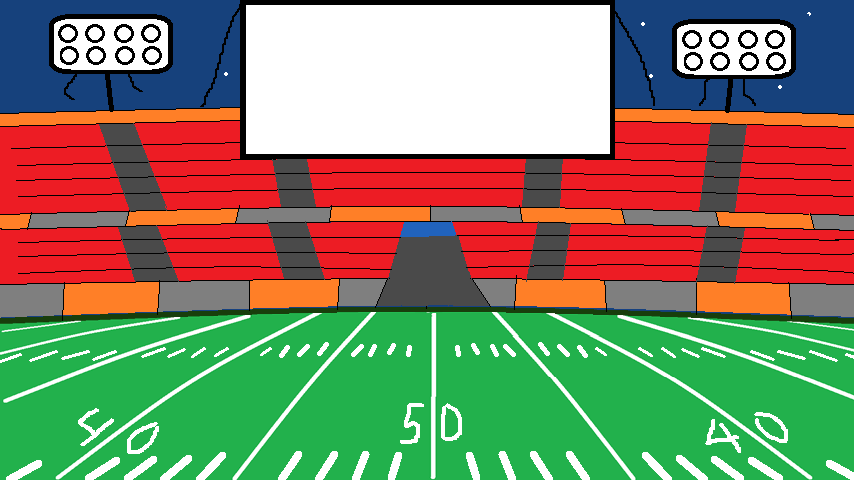
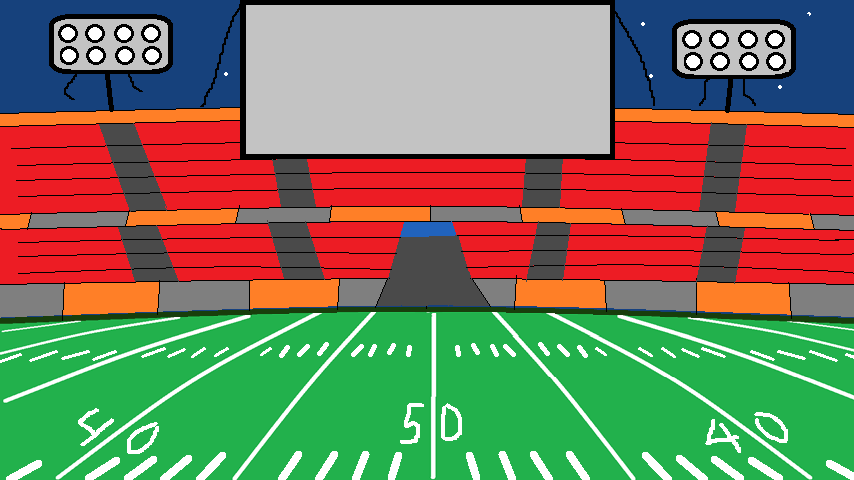
finish assets + player + enemy

Changed region(s): [[0.274, 0.0, 0.7307, 0.3438], [0.0609, 0.0312, 0.2131, 0.1562], [0.7916, 0.0312, 0.9438, 0.1562]]

diff --git a/src/scenes/Load.js b/src/scenes/Load.js
@@ -5,12 +5,17 @@ class Load extends Phaser.Scene{
 
     preload() {
         this.load.path = './assets/'
+
         //font
         this.load.bitmapFont('toonyFont', '/font/ToonyFont.png', '/font/ToonyFont.fnt')
 
         //images
         this.load.image('menu', '/img/Menu.png')
         this.load.image('field', '/img/field.png')
+        this.load.spritesheet('stadium', '/img/stadium.png', {
+            frameWidth: 2160,
+            frameHeight: 300
+        })
 
         //sounds
         
@@ -19,10 +24,25 @@ class Load extends Phaser.Scene{
             frameWidth: 64,
             frameHeight: 64
         });   
+
+        this.load.spritesheet('enemy', './spritesheets/enemy.png', {
+            frameWidth: 64,
+            frameHeight: 64
+        });  
     }
 
     create() {
         //anims
+
+        //cool bg
+        this.anims.create({
+            key: 'anim-bg',
+            frameRate: 1,
+            repeate: -1,
+            frames: this.anims.generateFrameNumbers('stadium', { 
+                frames: [0, 1] 
+            })
+        });
 
         //down
         this.anims.create({
@@ -50,7 +70,7 @@ class Load extends Phaser.Scene{
             frameRate: 3,
             repeate: -1,
             frames: this.anims.generateFrameNumbers('player', { 
-                frames: [3, 5] 
+                frames: [0, 2] 
             })
         });
 
@@ -59,28 +79,8 @@ class Load extends Phaser.Scene{
             frameRate: 0,
             repeat: -1,
             frames: this.anims.generateFrameNumbers('player', {
-                start: 4,
-                end: 4
-            })
-        });
-
-        //left
-        this.anims.create({
-            key: 'run-left',
-            frameRate: 3,
-            repeate: -1,
-            frames: this.anims.generateFrameNumbers('player', { 
-                frames: [3, 5] 
-            })
-        });
-
-        this.anims.create({
-            key: 'idle-left',
-            frameRate: 0,
-            repeat: -1,
-            frames: this.anims.generateFrameNumbers('player', {
-                start: 4,
-                end: 4
+                start: 1,
+                end: 1
             })
         });
 
@@ -90,7 +90,7 @@ class Load extends Phaser.Scene{
             frameRate: 3,
             repeate: -1,
             frames: this.anims.generateFrameNumbers('player', { 
-                frames: [3, 5] 
+                frames: [6, 8] 
             })
         });
 
@@ -99,10 +99,41 @@ class Load extends Phaser.Scene{
             frameRate: 0,
             repeat: -1,
             frames: this.anims.generateFrameNumbers('player', {
-                start: 4,
-                end: 4
+                start: 7,
+                end: 7
             })
         });
+
+        //left
+        this.anims.create({
+            key: 'run-left',
+            frameRate: 3,
+            repeate: -1,
+            frames: this.anims.generateFrameNumbers('player', { 
+                frames: [9, 11] 
+            })
+        });
+
+        this.anims.create({
+            key: 'idle-left',
+            frameRate: 0,
+            repeat: -1,
+            frames: this.anims.generateFrameNumbers('player', {
+                start: 10,
+                end: 10
+            })
+        });
+
+        //enemy
+        this.anims.create({
+            key: 'enemy-left',
+            frameRate: 3,
+            repeate: -1,
+            frames: this.anims.generateFrameNumbers('enemy', { 
+                frames: [9, 11] 
+            })
+        });
+
 
         //music
 

diff --git a/src/scenes/Play.js b/src/scenes/Play.js
@@ -4,18 +4,12 @@ class Play extends Phaser.Scene {
     }
 
     create() {
-        this.cameras.main.setBackgroundColor(0xFACADE);
-       
-        this.cursors = this.input.keyboard.createCursorKeys();
-
-        this.map = this.add.image(0, 0, 'field').setOrigin(0, 0);
-
-
         this.add.text(0, height ,'R to restart\nM for menu',{
             fontSize: 16,
             fontFamily: 'Arial',
             color: '#000'
         }).setOrigin(0, 0);
+
         //menu scene option
         this.input.keyboard.on('keydown-M', () => {
             this.scene.start('menuScene');
@@ -24,39 +18,44 @@ class Play extends Phaser.Scene {
         //restart game option
         this.input.keyboard.on('keydown-R', () => {
             this.scene.restart();
-        });
+        }); 
+
+        this.cameras.main.setBackgroundColor(0xFACADE);
+       
+        this.cursors = this.input.keyboard.createCursorKeys();
+
+        this.map = this.add.image(0, 0, 'field').setOrigin(0, 0);
 
 
-        let menuConfig = {
-            fontFamily: 'Arial', 
-            fontSize: '32px',
-            color: '#ffffff',
-            align: 'right',
-            padding: {
-                top: 5,
-                bottom: 5,
-            },
-            fixedWidth: 0
-        }
+        this.stadium = this.physics.add.sprite(0, 0, 'stadium').setOrigin(0)
+        this.stadium.setImmovable(true)
         
-        this.player = new Player(this, width/2, height /2, 'player', 4).setOrigin(0.5, 1);
-        // this.add.physics
+        //enemy
+        this.enemy = new Enemy(this, width, height - borderSize, 'enemy', 4).setOrigin(0.5)
+
+        this.enemy.setBodySize(this.enemy.width / 2, this.enemy.height / 3)
+        this.enemy.body.setOffset(this.enemy.height / 4, 2 * this.enemy.height / 3)
+
+        //player
+        this.player = new Player(this, 0, height, 'player', 4).setOrigin(0.5)
+      
         //smaller hitbox
-        this.player.setBodySize(this.player.width / 2);
+        this.player.setBodySize(this.player.width / 2, this.player.height / 3)
+        this.player.body.setOffset(this.player.height / 4, 2 * this.player.height / 3)
+
+        this.physics.add.collider(this.player, this.stadium)
 
         this.cameras.main.setBounds(0, 0, this.map.width, this.map.height)
         this.cameras.main.startFollow(this.player, true, 0.25, 0.25)
         this.physics.world.setBounds(0, 0, this.map.width, this.map.height)
 
-        if(this.player.x == width * 2) {
-            over = true;
-            this.add.bitmapText(width / 2, height / 2 - padding, 'toonyFont', 'TOUCH DOWN!', 96).setOrigin(0.5);
-
-        }
     }
 
     update() {
-        this.player.update(this.cursors);
+        this.stadium.play('anim-bg', true)
+
+        this.enemy.update()
+        this.player.update(this.cursors, this);
         
     }
 

diff --git a/src/scenes/Menu.js b/src/scenes/Menu.js
@@ -34,18 +34,18 @@ class Menu extends Phaser.Scene {
         let menuOptions = [playOption, creditsOption];
       
         // highlighting feature
-        menuOptions[selectedOption].setTintFill(0xffff00)
+        menuOptions[selectedOption].setTintFill(0xf0e68c)
       
         this.input.keyboard.on('keydown-LEFT', () => {
             menuOptions[selectedOption].clearTint()
             selectedOption = 0
-            menuOptions[selectedOption].setTintFill(0xffff00)
+            menuOptions[selectedOption].setTintFill(0xffffe0)
         });
       
         this.input.keyboard.on('keydown-RIGHT', () => {
             menuOptions[selectedOption].clearTint()
             selectedOption = 1
-            menuOptions[selectedOption].setTintFill(0xffff00)
+            menuOptions[selectedOption].setTintFill(0xffffe0)
         });
       
         this.input.keyboard.on('keydown-SPACE', () => {
@@ -57,5 +57,8 @@ class Menu extends Phaser.Scene {
                 this.scene.start('creditScene');
             }
         });
+
+        //debug purposes
+        // this.scene.start('playScene');
     }
 }

diff --git a/src/prefabs/Player.js b/src/prefabs/Player.js
@@ -14,7 +14,7 @@ class Player extends Phaser.Physics.Arcade.Sprite {
     }
     
 
-    update(cursors) {
+    update(cursors, scene) {
         
         let playerVector = new Phaser.Math.Vector2(0 , 0);
 
@@ -38,10 +38,18 @@ class Player extends Phaser.Physics.Arcade.Sprite {
 
         playerVector.normalize();
 
-        this.setVelocity(playerVector.x * 500, playerVector.y * 500)
+        this.setVelocity(playerVector.x * 250, playerVector.y * 100)
         
         let playerMovement;
         playerVector.length() ? playerMovement = 'run' : playerMovement = 'idle';
         this.play(playerMovement + '-' + playerDirection, true);
+
+        //condition
+        if(this.x > 2020) {
+            
+            over = true;
+            scene.add.bitmapText(this.x - this.width - borderSize, this.y - this.height - borderSize, 'toonyFont', 'TOUCH DOWN!', 96).setOrigin(0.5);
+
+        }
     }
 }

diff --git a/src/prefabs/Enemy.js b/src/prefabs/Enemy.js
@@ -1,0 +1,20 @@
+class Enemy extends Phaser.Physics.Arcade.Sprite {
+    constructor(scene, x, y, texture, frame) {
+        super(scene, x, y, texture, frame);
+        
+        scene.add.existing(this).setScale(2);
+        scene.physics.world.enable(this);
+
+        // this.setCollideWorldBounds(true);
+
+        this.setVelocityX(-250)
+        this.play('enemy-left', false);
+    }
+    update() {
+        
+        if(this.x < 0) {
+            this.destroy()
+        }
+    }
+
+}

diff --git a/index.html b/index.html
@@ -21,6 +21,7 @@
 <body>
     <script src="./lib/phaser.js"></script>
     <script src="./src/prefabs/Player.js"></script>
+    <script src="./src/prefabs/Enemy.js"></script>
     <script src="./src/scenes/Load.js"></script>
     <script src="./src/scenes/Menu.js"></script>
     <script src="./src/scenes/Credits.js"></script>
